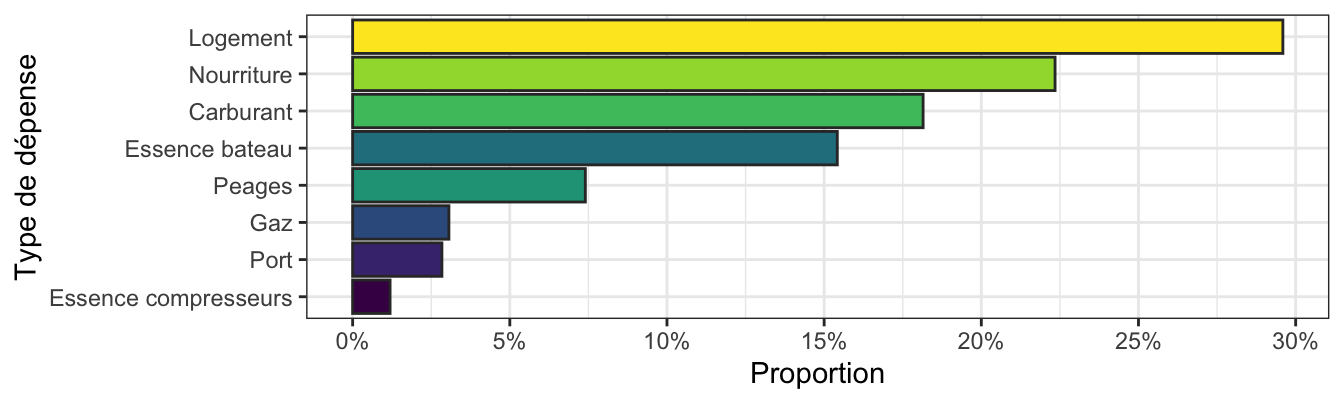
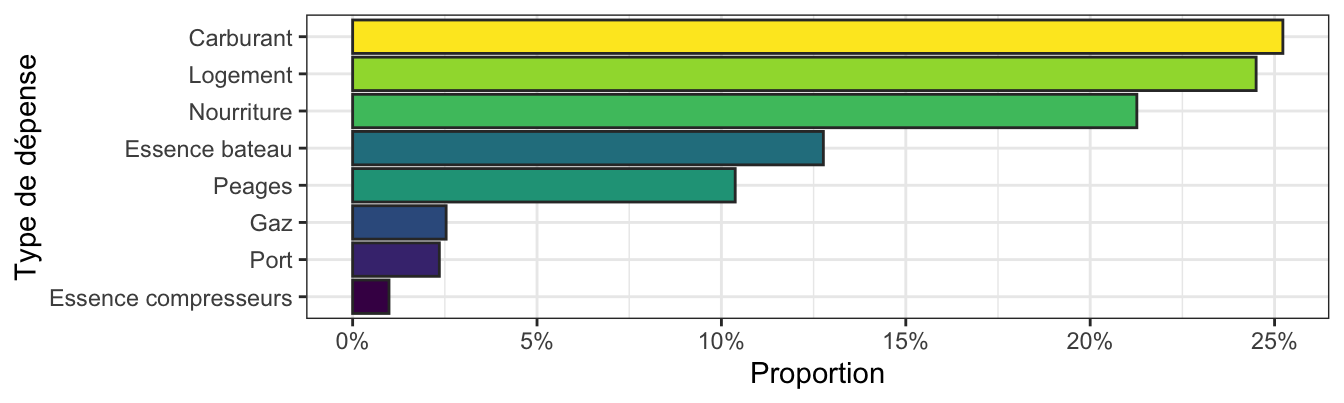
Ajout dernières dépenses ?

diff --git a/docs/LaLonde2025.html b/docs/LaLonde2025.html
@@ -334,7 +334,7 @@ ul.task-list li input[type="checkbox"] {
     <div>
     <div class="quarto-title-meta-heading">Dernière Mise à jour</div>
     <div class="quarto-title-meta-contents">
-      <p class="date">samedi 25 octobre 2025</p>
+      <p class="date">dimanche 26 octobre 2025</p>
     </div>
   </div>
   
@@ -718,10 +718,10 @@ Table&nbsp;4: Dépenses hors plongées engagées par les participants à la sort
 <td style="text-align: right;">90€</td>
 <td style="text-align: right;">0.00€</td>
 <td style="text-align: right;">195.65€</td>
-<td style="text-align: right;">103.90€</td>
+<td style="text-align: right;">199.90€</td>
 <td style="text-align: right;">0€</td>
 <td style="text-align: right;">0€</td>
-<td style="text-align: right;">389.55€</td>
+<td style="text-align: right;">485.55€</td>
 </tr>
 <tr class="even">
 <td style="text-align: right;">Carole</td>
@@ -756,12 +756,12 @@ Table&nbsp;4: Dépenses hors plongées engagées par les participants à la sort
 <tr class="odd">
 <td style="text-align: right;">Thomas</td>
 <td style="text-align: right;">90€</td>
-<td style="text-align: right;">0.00€</td>
-<td style="text-align: right;">0.00€</td>
-<td style="text-align: right;">0.00€</td>
+<td style="text-align: right;">119.99€</td>
+<td style="text-align: right;">442.59€</td>
+<td style="text-align: right;">88.20€</td>
 <td style="text-align: right;">0€</td>
 <td style="text-align: right;">0€</td>
-<td style="text-align: right;">90.00€</td>
+<td style="text-align: right;">740.78€</td>
 </tr>
 <tr class="even">
 <td style="text-align: right;">Geneviève</td>
@@ -786,12 +786,12 @@ Table&nbsp;4: Dépenses hors plongées engagées par les participants à la sort
 <tr class="even">
 <td style="text-align: right; font-weight: bold;">Total</td>
 <td style="text-align: right; font-weight: bold;">1,063€</td>
-<td style="text-align: right; font-weight: bold;">802.66€</td>
-<td style="text-align: right; font-weight: bold;">651.88€</td>
-<td style="text-align: right; font-weight: bold;">265.90€</td>
+<td style="text-align: right; font-weight: bold;">922.65€</td>
+<td style="text-align: right; font-weight: bold;">1,094.47€</td>
+<td style="text-align: right; font-weight: bold;">450.10€</td>
 <td style="text-align: right; font-weight: bold;">0€</td>
 <td style="text-align: right; font-weight: bold;">0€</td>
-<td style="text-align: right; font-weight: bold;">2,783.44€</td>
+<td style="text-align: right; font-weight: bold;">3,530.22€</td>
 </tr>
 </tbody>
 </table>
@@ -880,9 +880,9 @@ Table&nbsp;6: Coûts unitaires par personne
 <tbody>
 <tr class="odd">
 <td style="text-align: right;">15.19€</td>
-<td style="text-align: right;">3.82€</td>
-<td style="text-align: right;">65.19€</td>
-<td style="text-align: right;">26.59€</td>
+<td style="text-align: right;">4.39€</td>
+<td style="text-align: right;">109.45€</td>
+<td style="text-align: right;">45.01€</td>
 </tr>
 </tbody>
 </table>
@@ -947,51 +947,51 @@ Table&nbsp;7: Bilan des coûts par plongeur et par poste
 </tr>
 <tr class="odd">
 <td style="text-align: right;">Nourriture</td>
-<td style="text-align: right;">80.27€</td>
-<td style="text-align: right;">80.27€</td>
-<td style="text-align: right;">80.27€</td>
-<td style="text-align: right;">80.27€</td>
-<td style="text-align: right;">160.53€</td>
-<td style="text-align: right;">80.27€</td>
-<td style="text-align: right;">80.27€</td>
-<td style="text-align: right;">80.27€</td>
-<td style="text-align: right;">80.27€</td>
+<td style="text-align: right;">92.26€</td>
+<td style="text-align: right;">92.26€</td>
+<td style="text-align: right;">92.26€</td>
+<td style="text-align: right;">92.26€</td>
+<td style="text-align: right;">184.53€</td>
+<td style="text-align: right;">92.26€</td>
+<td style="text-align: right;">92.26€</td>
+<td style="text-align: right;">92.26€</td>
+<td style="text-align: right;">92.26€</td>
 </tr>
 <tr class="even">
 <td style="text-align: right;">Carburant</td>
-<td style="text-align: right;">65.19€</td>
-<td style="text-align: right;">65.19€</td>
-<td style="text-align: right;">65.19€</td>
-<td style="text-align: right;">65.19€</td>
-<td style="text-align: right;">130.38€</td>
-<td style="text-align: right;">65.19€</td>
-<td style="text-align: right;">65.19€</td>
-<td style="text-align: right;">65.19€</td>
-<td style="text-align: right;">65.19€</td>
+<td style="text-align: right;">109.45€</td>
+<td style="text-align: right;">109.45€</td>
+<td style="text-align: right;">109.45€</td>
+<td style="text-align: right;">109.45€</td>
+<td style="text-align: right;">218.89€</td>
+<td style="text-align: right;">109.45€</td>
+<td style="text-align: right;">109.45€</td>
+<td style="text-align: right;">109.45€</td>
+<td style="text-align: right;">109.45€</td>
 </tr>
 <tr class="odd">
 <td style="text-align: right; border-bottom: 1px solid;">Peage</td>
-<td style="text-align: right; border-bottom: 1px solid;">26.59€</td>
-<td style="text-align: right; border-bottom: 1px solid;">26.59€</td>
-<td style="text-align: right; border-bottom: 1px solid;">26.59€</td>
-<td style="text-align: right; border-bottom: 1px solid;">26.59€</td>
-<td style="text-align: right; border-bottom: 1px solid;">53.18€</td>
-<td style="text-align: right; border-bottom: 1px solid;">26.59€</td>
-<td style="text-align: right; border-bottom: 1px solid;">26.59€</td>
-<td style="text-align: right; border-bottom: 1px solid;">26.59€</td>
-<td style="text-align: right; border-bottom: 1px solid;">26.59€</td>
+<td style="text-align: right; border-bottom: 1px solid;">45.01€</td>
+<td style="text-align: right; border-bottom: 1px solid;">45.01€</td>
+<td style="text-align: right; border-bottom: 1px solid;">45.01€</td>
+<td style="text-align: right; border-bottom: 1px solid;">45.01€</td>
+<td style="text-align: right; border-bottom: 1px solid;">90.02€</td>
+<td style="text-align: right; border-bottom: 1px solid;">45.01€</td>
+<td style="text-align: right; border-bottom: 1px solid;">45.01€</td>
+<td style="text-align: right; border-bottom: 1px solid;">45.01€</td>
+<td style="text-align: right; border-bottom: 1px solid;">45.01€</td>
 </tr>
 <tr class="even">
 <td style="text-align: right; font-weight: bold;">Total</td>
-<td style="text-align: right; font-weight: bold;">374.58€</td>
-<td style="text-align: right; font-weight: bold;">390.62€</td>
-<td style="text-align: right; font-weight: bold;">390.62€</td>
-<td style="text-align: right; font-weight: bold;">390.62€</td>
-<td style="text-align: right; font-weight: bold;">668.97€</td>
-<td style="text-align: right; font-weight: bold;">390.62€</td>
-<td style="text-align: right; font-weight: bold;">390.62€</td>
-<td style="text-align: right; font-weight: bold;">481.34€</td>
-<td style="text-align: right; font-weight: bold;">481.34€</td>
+<td style="text-align: right; font-weight: bold;">449.26€</td>
+<td style="text-align: right; font-weight: bold;">465.30€</td>
+<td style="text-align: right; font-weight: bold;">465.30€</td>
+<td style="text-align: right; font-weight: bold;">465.30€</td>
+<td style="text-align: right; font-weight: bold;">818.32€</td>
+<td style="text-align: right; font-weight: bold;">465.30€</td>
+<td style="text-align: right; font-weight: bold;">465.30€</td>
+<td style="text-align: right; font-weight: bold;">556.02€</td>
+<td style="text-align: right; font-weight: bold;">556.02€</td>
 </tr>
 </tbody>
 </table>
@@ -1017,47 +1017,47 @@ Table&nbsp;7: Bilan des coûts par plongeur et par poste
 <tr class="odd">
 <td style="text-align: right;">Baptiste</td>
 <td style="text-align: right;">rembourse à l'AP</td>
-<td style="text-align: right;">157.28€</td>
+<td style="text-align: right;">231.96€</td>
 </tr>
 <tr class="even">
+<td style="text-align: right;">Benoît</td>
+<td style="text-align: right;">rembourse à l'AP</td>
+<td style="text-align: right;">55.45€</td>
+</tr>
+<tr class="odd">
 <td style="text-align: right;">Geneviève</td>
 <td style="text-align: right;">rembourse à l'AP</td>
-<td style="text-align: right;">481.34€</td>
+<td style="text-align: right;">556.02€</td>
 </tr>
-<tr class="odd">
+<tr class="even">
 <td style="text-align: right;">Marc</td>
 <td style="text-align: right;">rembourse à l'AP</td>
-<td style="text-align: right;">249.71€</td>
-</tr>
-<tr class="even">
-<td style="text-align: right;">Thomas</td>
-<td style="text-align: right;">rembourse à l'AP</td>
-<td style="text-align: right;">300.62€</td>
+<td style="text-align: right;">324.39€</td>
 </tr>
 <tr class="odd">
-<td style="text-align: right;">Benoît</td>
-<td style="text-align: right;">se fait rembourser par l'AP</td>
-<td style="text-align: right;">19.23€</td>
-</tr>
-<tr class="even">
 <td style="text-align: right;">Calude</td>
 <td style="text-align: right;">se fait rembourser par l'AP</td>
-<td style="text-align: right;">170.23€</td>
-</tr>
-<tr class="odd">
-<td style="text-align: right;">Carole</td>
-<td style="text-align: right;">se fait rembourser par l'AP</td>
-<td style="text-align: right;">144.31€</td>
+<td style="text-align: right;">191.55€</td>
 </tr>
 <tr class="even">
-<td style="text-align: right;">Jérôme</td>
+<td style="text-align: right;">Carole</td>
 <td style="text-align: right;">se fait rembourser par l'AP</td>
-<td style="text-align: right;">331.81€</td>
+<td style="text-align: right;">69.63€</td>
 </tr>
 <tr class="odd">
+<td style="text-align: right;">Jérôme</td>
+<td style="text-align: right;">se fait rembourser par l'AP</td>
+<td style="text-align: right;">182.46€</td>
+</tr>
+<tr class="even">
 <td style="text-align: right;">Pierre</td>
 <td style="text-align: right;">se fait rembourser par l'AP</td>
-<td style="text-align: right;">156.06€</td>
+<td style="text-align: right;">81.38€</td>
+</tr>
+<tr class="odd">
+<td style="text-align: right;">Thomas</td>
+<td style="text-align: right;">se fait rembourser par l'AP</td>
+<td style="text-align: right;">275.48€</td>
 </tr>
 </tbody>
 </table>
@@ -1070,15 +1070,15 @@ Table&nbsp;7: Bilan des coûts par plongeur et par poste
 <h2 class="anchored" data-anchor-id="bénéfices-essence-et-heures">Bénéfices, essence et heures</h2>
 <p>La majoration de 3€ de chaque plongée ainsi que les plongées des invités (si la plongée des membres coûte moins de 23€) permettent de faire des (petits) bénéfices. Ils s’élèvent ici à <strong>367.34€</strong>.</p>
 <p>Pour finir, nous avons parcouru 132.7 milles nautiques. Ça veut dire que nous consommons en moyenne 2.3 litres par mille, soit 1.24 litres au kilomètre, soit la bagatelle de 124 litres au 100 kilomètres. La plongée est un sport écologique !</p>
-<p>Le moteur a tourné 18.5 heures et 330 litres de sans plomb ont été mis dans le réservoir. D’après la console, 305 litres ont été consommés soit une consommation moyenne de 16.49 litres à l’heure. Il devrait donc rester environ 25 litres dans le réservoir et Thomas en a sorti environ 30, soit -5 litres de moins que prévu. Cela représente une erreur d’estimation de consommation de -1.52%.</p>
-<p>Les boudins ont enfin été nettoyés : merci Mistral Plaisance !</p>
+<p>Le moteur a tourné 18.5 heures et 330 litres de sans plomb ont été mis dans le réservoir. D’après la console, 305 litres ont été consommés soit une consommation moyenne de 16.49 litres à l’heure. Il devrait donc rester environ 25 litres dans le réservoir avant la révision et la mise en hivernage</p>
+<!-- et Thomas en a sorti environ 30, soit -5 litres de moins que prévu. Cela représente une erreur d'estimation de consommation de -1.52%. -->
 </section>
 <section id="pour-mémoire" class="level2">
 <h2 class="anchored" data-anchor-id="pour-mémoire">Pour mémoire</h2>
-<p>Location au milieu des champs, comme en 2014, 2017 et 2023. Toujours 4 places en bas (1 lit double et 2 lits simples, dans 2 chambres), et 5 places en haut (un lit double dans une chambre, 3 lits simples dans l’autre), et il y a de la place pour 2 ou 3 matelas si besoin. La maison est un peu vieillotte, mais absolument parfaite pour nous (literie un peu molle quand même !). On peut gonfler dans le jardin, il y a de la place pour la remorque bateau et tous les véhicules, et le garage/grange est parfait pour stocker le matos. Un WC en haut et un en bas, une seule douche. Tarif imbattable. Pas de mouches cette année car il y avait du maïs dans le champ, mais les génisses reviendront prochainement…</p>
-<p>Première plongée le mercredi après-midi car la flotte du tour du Finistère à la voile monopolisait le port dès le mardi midi. En dehors, de ça, aucune plongée annulée : 2 plongées par jour, tous les jours, sauf sur 2 jours au moment de la bascule (petits coef en plein milieu de journée). Les épaves notables du coin ont toutes été plongées au moins une fois, y compris le Drummond, l’Européan et le Nelson. Et une nouvelle épave a été faite sous la vigie du Stiff : le Yembo, jolie épave très cassée dans le fond d’un canyon, entre -25 et -45.</p>
-<p>Sur le plan pratique, le point du Taboga a été corrigé après plusieurs plongées sable/roche. Au final, le bon point, près des chaudières, était celui du bouquin de Job. Même manip sur l’European : On a repris le bon point au niveau des chaudières : ça devrait rouler sans problème pour la prochaine fois. Pour le Yembo, le premier des 2 points tombe pile sur l’avant de l’épave, dans la zone des 40 mètres. Toujours sur les aspects pratiques, il n’y a presque pas de courant sur l’Eildon, le Yembo (y compris près de 2h après la PM) et l’European (en mortes eaux !). Impossible en revanche de plonger à marée haute sur le Nelson : viser une heure avant et maximum une heure après la BM.</p>
-<p>Enfin, au départ de Lanildut, le Taboga, le Lake Borgne, Le Saracen et le Columbian sont à moins de 6 miles. L’Eildon est à environ 7 miles, Le Nelson et le Yembo sont à environ 10 miles, le Drummond à 12 et l’European à 15 miles.</p>
+<p>Comme en 2022 et 2023, location exceptionnellement bien située, au 279 quai Jean Lamoudru à La Londe les Maures. On ouvre le portail, on traverse la route, et on est au bateau ! De la place dans le jardin pour stocker la remorque compresseur, qui est restée sans ridelles ni bâche tous les jours de beau temps. Ducato garé le long du quai, on ne démarre que pour aller gonfler, et aps bien loin (près du parking remorques, à 200 mètres). Un grand préau pour stocker le matos de plongée et s’équiper au sec, et un petit débarras parfait pour le compresseur électrique. Le soir, on rince directement devant le portail. EN dehors des moustique, particulièrement nombreux et agressifs, on ne peut pas faire beaucoup mieux pour la plongée. Maison également très agréable : 2 chambres avec lit double (avec possibilité de poser un matelas dans la plus grande), une chambre avec un lit double et 2 lits superposés. Deux salles de bain et 3 WC. Il y a largement de quoi venir à 10 ou 12. Grande pièce de vie avec clic-clac, terrasses… Trop bien !</p>
+<p>Un peu galère côté capitainerie cette année : si on ne sort pas le bateau de l’eau avant 11h le matin, la journée est due. Et un peu pénible aussi concernant le respect de la place attribuée alors que le port était à moitié vide.</p>
+<p>Côté plongée, fabuleux quand on a pu sortir. Eau chaude (20-21 ºC, mais thermocline sévère vers 50 mètre), grosse visi, et énormément de faune. Pas de plongée le lundi en raison d’un coup de vent annoncé et qui a tardé à venir (on aurait pu sortir le matin). Pas de plongée non plus le jeudi après-midi car le gros coup de vent annoncé était bien au rendez-vous (force 6-8 à La Londe, 9 au large). Avec un départ du port à 7h30, dans la nuit, on a pu rentrer pour 11h00. Même pour des journées sans vent, ça pourrait être une bonne habitude à prendre pour finir la journée plus tôt (et pour éviter les moustiques !). Vendredi, pas de plongée non plus : révision du moteur oblige. Les 4 plongeurs recycleur trimix on pu faire le Torpilleur (nouvel echec sur le Sally of New York, et on est tombé à côté du Heinkel 111 sans faire exprès !). Les autres ont fait le Grec ce jour là. À noter aussi la prise de tête sur les sorties de l’eau sans parachute sur le Donator et le Grec. Thomas a failli en venir aux mains avec un local con comme une bi.. !</p>
+<p>Pour le reste, gros gavage. Super plongée, super ambiance, super rencontre avec Marc et Ginou. Pas de problème de Ducato, pas de problème de bateau, pas de problème en plongée. Vivement le mois d’Avril qu’on recommence, et avec Nath !</p>
 </section>
 <section id="quelques-graphiques" class="level2">
 <h2 class="anchored" data-anchor-id="quelques-graphiques">Quelques graphiques</h2>
